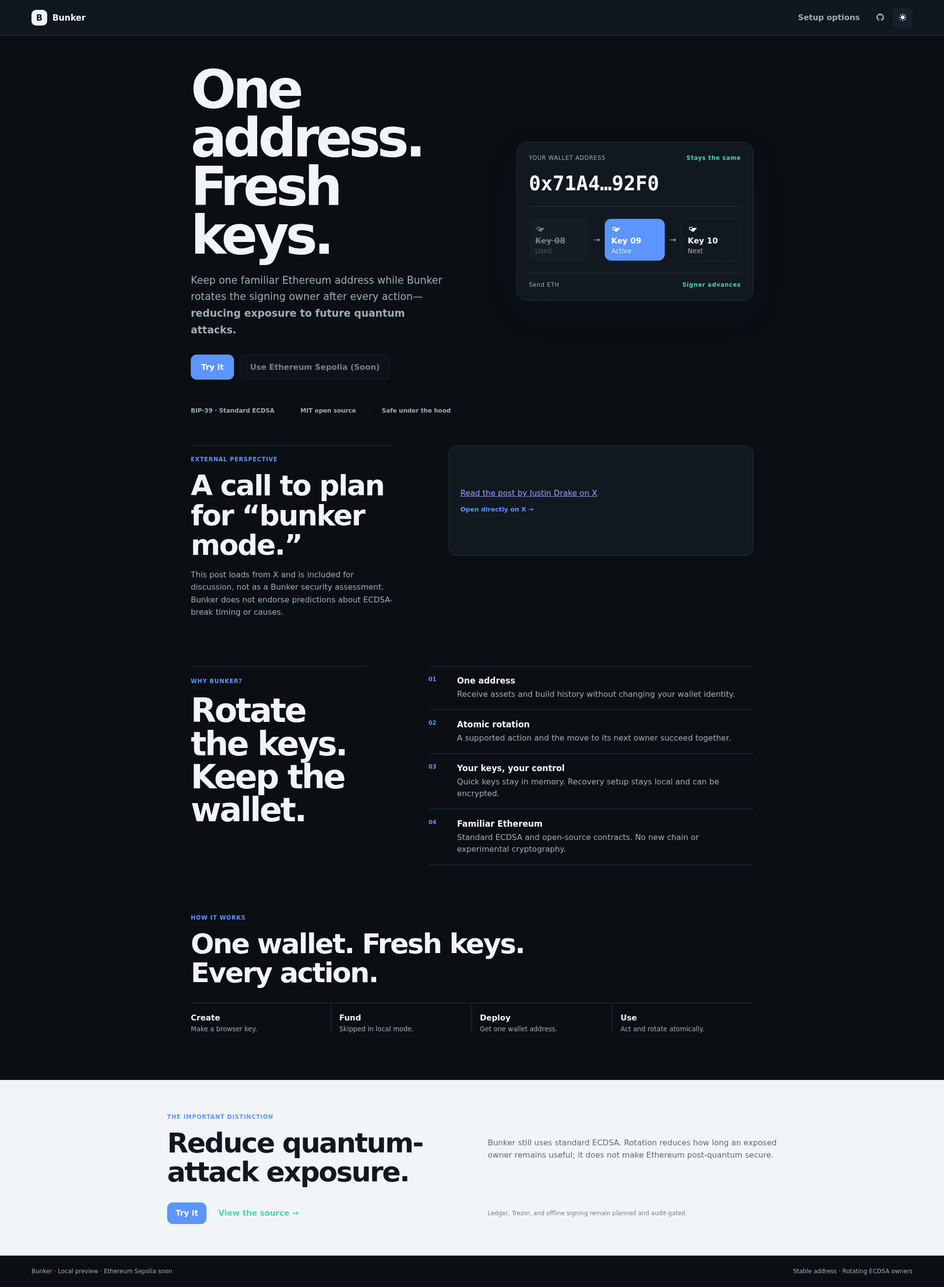
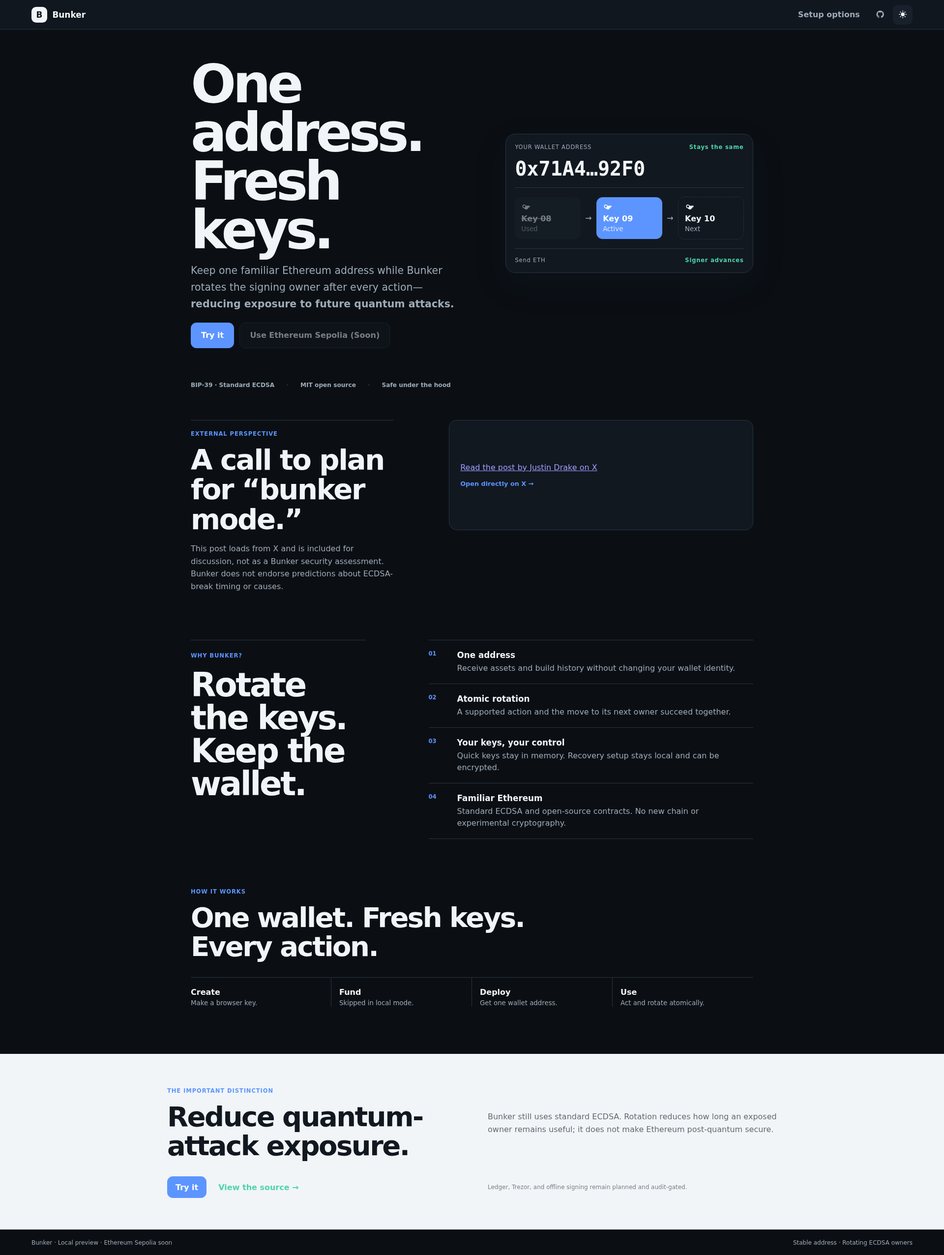
Tighten desktop vertical rhythm

diff --git a/apps/web/src/styles.css b/apps/web/src/styles.css
@@ -1,1 +1,2 @@
-:root{font-family:ui-sans-serif,-apple-system,BlinkMacSystemFont,"Segoe UI",sans-serif;font-synthesis:none;color-scheme:light;background:#f5f7fa}*{box-sizing:border-box}body{margin:0}button,input,textarea{font:inherit}.site{--bg:#f5f7fa;--surface:#fff;--soft:#eef2f6;--line:#dce2e9;--text:#101820;--muted:#63707c;--accent:#146bff;--mint:#18b889;--ink:#fff;min-height:100vh;background:var(--bg);color:var(--text)}.site.dark{--bg:#0b0f14;--surface:#121820;--soft:#18212b;--line:#283442;--text:#f1f5f8;--muted:#9eabb7;--accent:#5c95ff;--mint:#4dd4aa;--ink:#071018;color-scheme:dark}::selection{background:var(--accent);color:#fff}button{border:1px solid var(--line);background:var(--surface);color:var(--text);border-radius:.7rem;padding:.72rem 1rem;font-weight:650;cursor:pointer}button:hover:not(:disabled){border-color:var(--accent)}button:disabled{opacity:.48;cursor:not-allowed}button:focus-visible,input:focus-visible,textarea:focus-visible,a:focus-visible{outline:3px solid var(--accent);outline-offset:2px}.primary{background:var(--accent);border-color:var(--accent);color:#fff}.wide{width:100%;padding:.95rem}.top{height:72px;display:flex;align-items:center;padding:0 clamp(1rem,4vw,4rem);border-bottom:1px solid var(--line);background:color-mix(in srgb,var(--surface),transparent 8%);position:relative;z-index:2}.brand{border:0;background:transparent;padding:0;display:flex;align-items:center;gap:.65rem;font-size:1.06rem}.brand span{display:grid;place-items:center;width:32px;height:32px;border-radius:.6rem;background:var(--text);color:var(--surface);font-weight:900}.top nav{margin-left:auto;display:flex;align-items:center;gap:.35rem}.top nav button{border:0;background:transparent;color:var(--muted)}.top nav button:hover{color:var(--text);background:var(--soft)}.nav-icon{width:2.5rem;height:2.5rem;padding:0;border:1px solid transparent;border-radius:.65rem;display:grid;place-items:center;color:var(--muted);background:transparent}.nav-icon:hover{color:var(--text);background:var(--soft);border-color:var(--line)}.nav-icon svg{width:1.15rem;height:1.15rem;fill:currentColor}.test-banner{padding:.55rem 1rem;text-align:center;background:#fff3cd;color:#5f4600;border-bottom:1px solid #e7c85f;font-size:.78rem;font-weight:750}.toast{position:fixed;top:84px;left:50%;transform:translateX(-50%);z-index:10;background:var(--text);color:var(--surface);padding:.75rem 1rem;border-radius:2rem;box-shadow:0 12px 35px rgba(0,0,0,.16);font-size:.86rem;max-width:calc(100vw - 2rem)}main{min-height:calc(100vh - 136px)}.hero-new{max-width:1240px;margin:auto;padding:clamp(1rem,2.5vw,2.5rem) clamp(1rem,4vw,3rem) 2.5rem;display:grid;grid-template-columns:1fr .9fr;gap:clamp(3rem,8vw,8rem);align-items:center}.status-dot{display:inline-flex;align-items:center;gap:.45rem;color:var(--mint);font-size:.78rem;font-weight:750;text-transform:uppercase;letter-spacing:.08em}.status-dot:before{content:"";width:7px;height:7px;border-radius:50%;background:var(--mint)}h1,h2,p{margin-top:0}.hero-copy h1{font-size:clamp(3.5rem,7vw,6.8rem);line-height:.91;letter-spacing:-.065em;margin:1.25rem 0 1.6rem;max-width:10ch}.hero-copy>p{font-size:clamp(1.05rem,1.6vw,1.28rem);line-height:1.65;color:var(--muted);max-width:590px}.hero-actions,.secure-actions,.setup-actions{display:flex;gap:.7rem;flex-wrap:wrap;margin:2rem 0 1rem}.hero-actions button{padding:.95rem 1.25rem}.hero-copy>small{color:var(--muted)}.mechanism{background:var(--surface);border:1px solid var(--line);border-radius:1.25rem;padding:1.5rem;box-shadow:0 24px 70px rgba(34,51,68,.1)}.address-head,.action-line{display:flex;justify-content:space-between;gap:1rem;font-size:.72rem;color:var(--muted);letter-spacing:.07em}.address-head b,.action-line b{color:var(--mint)}.mechanism>code{display:block;font:700 clamp(1.5rem,3vw,2.5rem)/1 ui-monospace,SFMono-Regular,monospace;padding:1.6rem 0;border-bottom:1px solid var(--line)}.key-track{display:grid;grid-template-columns:1fr auto 1fr auto 1fr;align-items:center;gap:.6rem;padding:1.5rem 0}.key{display:grid;gap:.25rem;padding:.8rem;border-radius:.8rem;background:var(--soft)}.key svg{width:20px;fill:currentColor}.key span{font-weight:750}.key small{color:var(--muted)}.key.spent{opacity:.45}.key.spent span{text-decoration:line-through}.key.active{background:var(--accent);color:#fff}.key.active small{color:#dfeaff}.key.next{border:1px dashed var(--line);background:transparent}.key-track>i{font-style:normal;color:var(--muted)}.action-line{padding-top:1rem;border-top:1px solid var(--line)}.button-link{display:inline-flex;align-items:center;border:1px solid var(--line);background:var(--surface);color:var(--text);border-radius:.7rem;padding:.95rem 1.25rem;font-weight:650;text-decoration:none}.button-link:hover{border-color:var(--accent)}.trust-line{max-width:1240px;margin:auto;padding:0 clamp(1rem,4vw,3rem);display:flex;gap:1.5rem;flex-wrap:wrap;color:var(--muted);font-size:.76rem;font-weight:700}.trust-line span+span:before{content:"·";margin-right:1.5rem;color:var(--line)}.why{max-width:1240px;margin:auto;padding:0 clamp(1rem,4vw,3rem) 6rem;display:grid;grid-template-columns:.7fr 1.3fr;gap:clamp(3rem,8vw,8rem)}.why-head{border-top:1px solid var(--line);padding-top:1.2rem}.why-head>span,.roadmap span{color:var(--accent);font-size:.72rem;font-weight:750;text-transform:uppercase;letter-spacing:.08em}.why-head h2{font-size:clamp(2.2rem,4vw,4.2rem);line-height:1;letter-spacing:-.05em;margin:1.2rem 0}.why-list{border-top:1px solid var(--line)}.why-list article{display:grid;grid-template-columns:42px 1fr;gap:1rem;padding:1.2rem 0;border-bottom:1px solid var(--line)}.why-list article>b{color:var(--accent);font-size:.72rem}.why-list h3{margin:0 0 .35rem;font-size:1.05rem}.why-list p{margin:0;color:var(--muted);line-height:1.5}.flow{max-width:1240px;margin:auto;padding:0 clamp(1rem,4vw,3rem) 6rem}.flow>span{color:var(--accent);font-size:.72rem;font-weight:750;text-transform:uppercase;letter-spacing:.08em}.flow h2{font-size:clamp(2rem,4vw,3.5rem);line-height:1.05;letter-spacing:-.045em;margin:1rem 0 2rem}.flow ol{list-style:none;margin:0;padding:0;display:grid;grid-template-columns:repeat(4,1fr);border-top:1px solid var(--line)}.flow li{padding:1.25rem 1rem 0 0;border-right:1px solid var(--line);display:grid;gap:.35rem}.flow li+li{padding-left:1rem}.flow li:last-child{border:0}.flow small{color:var(--muted)}.roadmap{background:var(--text);color:var(--surface);padding:4rem max(clamp(1rem,8vw,8rem),calc((100vw - 1240px)/2));display:grid;grid-template-columns:1fr 1fr;gap:2rem 4rem;align-items:center}.roadmap h2{font-size:clamp(2rem,4vw,3.5rem);line-height:1.05;letter-spacing:-.045em;margin:1rem 0 0}.roadmap p{color:color-mix(in srgb,var(--surface),transparent 35%);line-height:1.6;margin:0}.roadmap-links{display:flex;align-items:center;gap:1.5rem}.roadmap a{color:var(--mint);font-weight:750;text-decoration:none;white-space:nowrap}.roadmap>small{color:color-mix(in srgb,var(--surface),transparent 45%);grid-column:2;font-size:.75rem}.external-post{max-width:1240px;margin:auto;padding:clamp(2rem,4vw,4rem) clamp(1rem,4vw,3rem) 5rem;display:grid;grid-template-columns:.8fr 1.2fr;gap:clamp(3rem,8vw,7rem);align-items:start}.post-context{border-top:1px solid var(--line);padding-top:1rem}.post-context>span{color:var(--accent);font-size:.72rem;font-weight:750;text-transform:uppercase;letter-spacing:.08em}.post-context h2{font-size:clamp(2rem,4vw,3.6rem);line-height:1.05;letter-spacing:-.04em;margin:1rem 0}.post-context p,.post-embed p{color:var(--muted);line-height:1.6}.post-embed{min-height:14rem;background:var(--surface);border:1px solid var(--line);border-radius:1rem;padding:1.4rem;display:flex;flex-direction:column;align-items:flex-start;justify-content:center}.post-embed .twitter-tweet{margin:0 auto!important;width:100%!important}.post-link{margin-top:1rem;color:var(--accent);font-size:.8rem;font-weight:700;text-decoration:none}.setup,.advanced,.secure{width:min(720px,calc(100% - 2rem));margin:auto;padding:clamp(3rem,8vw,7rem) 0}.ephemeral-note,.saved-note{font-size:.8rem;color:var(--muted);border-left:1px solid var(--mint);padding-left:.8rem}.saved-note{color:var(--text)}.setup h1,.advanced h1,.secure h1{font-size:clamp(2.5rem,6vw,4.8rem);line-height:.98;letter-spacing:-.05em;margin:2rem 0 1rem}.stepper{display:grid;grid-template-columns:repeat(3,1fr);position:relative}.stepper:before{content:"";position:absolute;left:2rem;right:2rem;top:17px;height:1px;background:var(--line)}.stepper span{position:relative;display:grid;justify-items:center;gap:.5rem;color:var(--muted);font-size:.72rem}.stepper span:first-letter{background:var(--surface)}.stepper span b{font-size:.8rem}.stepper span.done{color:var(--mint)}.setup-address,.stable{margin:2rem 0;background:var(--surface);border:1px solid var(--line);border-radius:1rem;padding:1rem;display:grid;grid-template-columns:1fr auto;gap:.65rem;align-items:center}.setup-address span,.stable span{font-size:.75rem;color:var(--muted)}.setup-address code,.stable-copy{grid-column:1/2;min-width:0;padding:0;border:0;background:transparent;display:flex;align-items:center;gap:.65rem;text-align:left;color:var(--accent)}.stable-copy:hover code{color:var(--text)}.stable-copy code{overflow-wrap:anywhere;color:inherit}.stable-copy span{flex:none;color:var(--muted);font:700 .7rem/1 system-ui;text-transform:uppercase;letter-spacing:.06em}.setup-address button{grid-row:1/3;grid-column:2}.balance-row{display:flex;justify-content:space-between;border-block:1px solid var(--line);padding:1.2rem 0}.setup-actions button{flex:1}.deploy-status{margin-top:1rem;padding:1rem;background:var(--surface);border:1px solid var(--line);border-radius:1rem;display:grid;grid-template-columns:auto 1fr;gap:.85rem 1rem}.deploy-status h2{font-size:1rem;margin:0 0 .35rem}.deploy-status p{margin:0;color:var(--muted);font-size:.82rem;line-height:1.5}.deploy-status ol{grid-column:1/-1;margin:0;padding:.9rem 0 0 1.35rem;border-top:1px solid var(--line);color:var(--muted);font-size:.78rem;line-height:1.8}.deploy-status button{grid-column:1/-1}.deploy-spinner{width:1.25rem;height:1.25rem;margin-top:.05rem;border:2px solid var(--line);border-top-color:var(--accent);border-radius:50%;animation:deploy-spin .9s linear infinite}@keyframes deploy-spin{to{transform:rotate(360deg)}}.text-button,.back{border:0;background:transparent;color:var(--muted);padding-left:0}.wallet{max-width:1180px;margin:auto;padding:clamp(.75rem,2.5vw,2rem) 1rem}.wallet-top{display:grid;grid-template-columns:1fr 340px;gap:2rem;align-items:end}.wallet-top h1{font-size:clamp(3.5rem,7vw,6rem);letter-spacing:-.06em;margin:1rem 0 .5rem}.rotation-card{background:var(--text);color:var(--surface);padding:1.4rem;border-radius:1rem}.rotation-card>span{font-size:.68rem;letter-spacing:.1em}.rotation-card strong{display:block;font-size:2rem;margin:.5rem 0}.rotation-card p{color:color-mix(in srgb,var(--surface),transparent 35%);font-size:.8rem}.rotation-card>div{height:5px;background:color-mix(in srgb,var(--surface),transparent 80%);border-radius:5px}.rotation-card i{display:block;height:100%;background:var(--mint);border-radius:5px}.session-note{margin:1rem 0 0;color:var(--muted);font-size:.78rem;line-height:1.5}.stable{grid-template-columns:1fr auto}.stable b{grid-row:1/3;grid-column:2;color:var(--mint);font-size:.75rem}.signer-sequence{margin:2rem 0;background:var(--surface);border:1px solid var(--line);border-radius:1rem;padding:1.15rem}.signer-sequence>div:first-child{display:flex;justify-content:space-between;gap:1rem}.signer-sequence span{font-weight:750}.signer-sequence small{color:var(--muted)}.signer-steps{display:grid;grid-template-columns:1fr auto 1fr auto 1fr;gap:.75rem;align-items:center;margin-top:1rem}.signer-steps>div{display:grid;gap:.35rem;padding:.8rem;border:1px solid var(--line);border-radius:.7rem}.signer-steps>.current{border-color:var(--accent);background:color-mix(in srgb,var(--accent),transparent 94%)}.signer-steps code{font-size:.8rem}.signer-steps i{font-style:normal;color:var(--muted)}.wallet-grid{display:grid;grid-template-columns:1.2fr .8fr;gap:2rem;margin-top:2rem}.actions-panel,.activity{background:var(--surface);border:1px solid var(--line);border-radius:1rem;padding:1.4rem}svg{width:18px;height:18px;fill:currentColor}.actions-panel h2,.activity h2{font-size:1.15rem;margin-bottom:.4rem}.history-intro{color:var(--muted);font-size:.82rem;line-height:1.45;margin:0 0 1rem}.actions-panel label{display:grid;gap:.45rem;margin:1rem 0;color:var(--muted);font-size:.78rem}.actions-panel input,.actions-panel textarea,.secure input,.secure textarea{width:100%;border:1px solid var(--line);background:var(--bg);color:var(--text);padding:.85rem;border-radius:.65rem}.split{display:grid;grid-template-columns:1fr 110px;gap:.7rem}.activity-row{display:grid;grid-template-columns:auto 1fr auto;gap:.8rem;align-items:start;padding:1rem 0;border-top:1px solid var(--line)}.activity-row>span{font-size:.65rem;background:var(--soft);padding:.3rem .45rem;border-radius:1rem;color:var(--muted)}.activity-row p{display:grid;gap:.25rem;margin:0}.activity-row code{font-size:.7rem;color:var(--muted);overflow-wrap:anywhere}.activity-row small{color:var(--muted)}.activity-row a{color:var(--accent);font-size:.75rem}.option-list{display:grid;margin-top:2.5rem;border-top:1px solid var(--line)}.option-list button{border:0;border-bottom:1px solid var(--line);border-radius:0;background:transparent;display:grid;grid-template-columns:1fr auto;text-align:left;padding:1.2rem 0}.option-list button span{font-size:1rem}.option-list button small{grid-row:2;color:var(--muted);font-weight:400}.option-list button b{grid-row:1/3;grid-column:2;align-self:center;color:var(--accent)}.words{list-style:none;display:grid;grid-template-columns:repeat(4,1fr);gap:1px;background:var(--line);padding:1px;margin:2rem 0}.words li{background:var(--surface);padding:.8rem;font-weight:700}.words span{display:block;color:var(--muted);font-size:.65rem}.check{display:flex;gap:.6rem;align-items:center;color:var(--muted)}.check input{width:auto}.confirm{display:grid;grid-template-columns:repeat(3,1fr);gap:.7rem}.secure label{display:grid;gap:.45rem;margin:1rem 0;color:var(--muted);font-size:.8rem}.load-choice{padding:1.25rem 0;border-top:1px solid var(--line)}.load-choice h2{font-size:1rem;margin:0 0 .35rem}.load-choice p{color:var(--muted);font-size:.82rem;line-height:1.5;margin:0}.load-choice button{width:100%}footer{height:64px;border-top:1px solid var(--line);display:flex;justify-content:space-between;align-items:center;padding:0 clamp(1rem,4vw,4rem);color:var(--muted);font-size:.75rem}@media(max-width:760px){.top{height:64px}.top nav>button:not(.nav-icon):not(.nav-exit){display:none}.hero-new{grid-template-columns:1fr;padding-top:1rem;gap:3rem}.hero-copy h1{font-size:3.8rem}.hero-actions{display:grid}.mechanism{padding:1rem}.key-track{gap:.3rem}.key{padding:.55rem}.key-track>i{display:none}.trust-line{display:grid;grid-template-columns:1fr 1fr;gap:.65rem 1rem}.trust-line span+span:before{content:none}.why{grid-template-columns:1fr;gap:1.5rem}.flow ol{grid-template-columns:1fr 1fr}.flow li{border-bottom:1px solid var(--line);border-right:0;padding:1rem 0}.flow li+li{padding-left:0}.roadmap{grid-template-columns:1fr;gap:1.5rem}.roadmap a{white-space:normal}.roadmap>small{grid-column:1}.external-post{grid-template-columns:1fr;gap:1.5rem;padding-top:2rem;padding-bottom:4rem}.post-embed{min-height:12rem}.wallet-top,.wallet-grid{grid-template-columns:1fr}.signer-sequence>div:first-child{display:grid}.signer-steps{grid-template-columns:1fr}.signer-steps i{transform:rotate(90deg);justify-self:center}.stable{grid-template-columns:1fr}.stable b{grid-row:auto;grid-column:1}.words{grid-template-columns:repeat(3,1fr)}.confirm{grid-template-columns:1fr}.setup-actions,.secure-actions{display:grid}.toast{top:72px}}@media(prefers-reduced-motion:reduce){*{scroll-behavior:auto!important;transition:none!important}.deploy-spinner{animation:none;border-color:var(--accent)}}
+:root{font-family:ui-sans-serif,-apple-system,BlinkMacSystemFont,"Segoe UI",sans-serif;font-synthesis:none;color-scheme:light;background:#f5f7fa}*{box-sizing:border-box}body{margin:0}button,input,textarea{font:inherit}.site{--bg:#f5f7fa;--surface:#fff;--soft:#eef2f6;--line:#dce2e9;--text:#101820;--muted:#63707c;--accent:#146bff;--mint:#18b889;--ink:#fff;min-height:100vh;background:var(--bg);color:var(--text)}.site.dark{--bg:#0b0f14;--surface:#121820;--soft:#18212b;--line:#283442;--text:#f1f5f8;--muted:#9eabb7;--accent:#5c95ff;--mint:#4dd4aa;--ink:#071018;color-scheme:dark}::selection{background:var(--accent);color:#fff}button{border:1px solid var(--line);background:var(--surface);color:var(--text);border-radius:.7rem;padding:.72rem 1rem;font-weight:650;cursor:pointer}button:hover:not(:disabled){border-color:var(--accent)}button:disabled{opacity:.48;cursor:not-allowed}button:focus-visible,input:focus-visible,textarea:focus-visible,a:focus-visible{outline:3px solid var(--accent);outline-offset:2px}.primary{background:var(--accent);border-color:var(--accent);color:#fff}.wide{width:100%;padding:.95rem}.top{height:60px;display:flex;align-items:center;padding:0 clamp(1rem,4vw,4rem);border-bottom:1px solid var(--line);background:color-mix(in srgb,var(--surface),transparent 8%);position:relative;z-index:2}.brand{border:0;background:transparent;padding:0;display:flex;align-items:center;gap:.65rem;font-size:1.06rem}.brand span{display:grid;place-items:center;width:32px;height:32px;border-radius:.6rem;background:var(--text);color:var(--surface);font-weight:900}.top nav{margin-left:auto;display:flex;align-items:center;gap:.35rem}.top nav button{border:0;background:transparent;color:var(--muted)}.top nav button:hover{color:var(--text);background:var(--soft)}.nav-icon{width:2.5rem;height:2.5rem;padding:0;border:1px solid transparent;border-radius:.65rem;display:grid;place-items:center;color:var(--muted);background:transparent}.nav-icon:hover{color:var(--text);background:var(--soft);border-color:var(--line)}.nav-icon svg{width:1.15rem;height:1.15rem;fill:currentColor}.test-banner{padding:.55rem 1rem;text-align:center;background:#fff3cd;color:#5f4600;border-bottom:1px solid #e7c85f;font-size:.78rem;font-weight:750}.toast{position:fixed;top:84px;left:50%;transform:translateX(-50%);z-index:10;background:var(--text);color:var(--surface);padding:.75rem 1rem;border-radius:2rem;box-shadow:0 12px 35px rgba(0,0,0,.16);font-size:.86rem;max-width:calc(100vw - 2rem)}main{min-height:calc(100vh - 136px)}.hero-new{max-width:1240px;margin:auto;padding:clamp(1rem,2.5vw,2.5rem) clamp(1rem,4vw,3rem) 2.5rem;display:grid;grid-template-columns:1fr .9fr;gap:clamp(2rem,5vw,5rem);align-items:center}.status-dot{display:inline-flex;align-items:center;gap:.45rem;color:var(--mint);font-size:.78rem;font-weight:750;text-transform:uppercase;letter-spacing:.08em}.status-dot:before{content:"";width:7px;height:7px;border-radius:50%;background:var(--mint)}h1,h2,p{margin-top:0}.hero-copy h1{font-size:clamp(3.5rem,7vw,6.8rem);line-height:.91;letter-spacing:-.065em;margin:.8rem 0 1.1rem;max-width:10ch}.hero-copy>p{font-size:clamp(1.05rem,1.6vw,1.28rem);line-height:1.65;color:var(--muted);max-width:590px}.hero-actions,.secure-actions,.setup-actions{display:flex;gap:.7rem;flex-wrap:wrap;margin:1.25rem 0 .75rem}.hero-actions button{padding:.95rem 1.25rem}.hero-copy>small{color:var(--muted)}.mechanism{background:var(--surface);border:1px solid var(--line);border-radius:1.25rem;padding:1.15rem;box-shadow:0 24px 70px rgba(34,51,68,.1)}.address-head,.action-line{display:flex;justify-content:space-between;gap:1rem;font-size:.72rem;color:var(--muted);letter-spacing:.07em}.address-head b,.action-line b{color:var(--mint)}.mechanism>code{display:block;font:700 clamp(1.5rem,3vw,2.5rem)/1 ui-monospace,SFMono-Regular,monospace;padding:1.1rem 0;border-bottom:1px solid var(--line)}.key-track{display:grid;grid-template-columns:1fr auto 1fr auto 1fr;align-items:center;gap:.6rem;padding:1.1rem 0}.key{display:grid;gap:.25rem;padding:.8rem;border-radius:.8rem;background:var(--soft)}.key svg{width:20px;fill:currentColor}.key span{font-weight:750}.key small{color:var(--muted)}.key.spent{opacity:.45}.key.spent span{text-decoration:line-through}.key.active{background:var(--accent);color:#fff}.key.active small{color:#dfeaff}.key.next{border:1px dashed var(--line);background:transparent}.key-track>i{font-style:normal;color:var(--muted)}.action-line{padding-top:1rem;border-top:1px solid var(--line)}.button-link{display:inline-flex;align-items:center;border:1px solid var(--line);background:var(--surface);color:var(--text);border-radius:.7rem;padding:.95rem 1.25rem;font-weight:650;text-decoration:none}.button-link:hover{border-color:var(--accent)}.trust-line{max-width:1240px;margin:auto;padding:0 clamp(1rem,4vw,3rem);display:flex;gap:1.5rem;flex-wrap:wrap;color:var(--muted);font-size:.76rem;font-weight:700}.trust-line span+span:before{content:"·";margin-right:1.5rem;color:var(--line)}.why{max-width:1240px;margin:auto;padding:0 clamp(1rem,4vw,3rem) 6rem;display:grid;grid-template-columns:.7fr 1.3fr;gap:clamp(3rem,8vw,8rem)}.why-head{border-top:1px solid var(--line);padding-top:1.2rem}.why-head>span,.roadmap span{color:var(--accent);font-size:.72rem;font-weight:750;text-transform:uppercase;letter-spacing:.08em}.why-head h2{font-size:clamp(2.2rem,4vw,4.2rem);line-height:1;letter-spacing:-.05em;margin:1.2rem 0}.why-list{border-top:1px solid var(--line)}.why-list article{display:grid;grid-template-columns:42px 1fr;gap:1rem;padding:1.2rem 0;border-bottom:1px solid var(--line)}.why-list article>b{color:var(--accent);font-size:.72rem}.why-list h3{margin:0 0 .35rem;font-size:1.05rem}.why-list p{margin:0;color:var(--muted);line-height:1.5}.flow{max-width:1240px;margin:auto;padding:0 clamp(1rem,4vw,3rem) 6rem}.flow>span{color:var(--accent);font-size:.72rem;font-weight:750;text-transform:uppercase;letter-spacing:.08em}.flow h2{font-size:clamp(2rem,4vw,3.5rem);line-height:1.05;letter-spacing:-.045em;margin:1rem 0 2rem}.flow ol{list-style:none;margin:0;padding:0;display:grid;grid-template-columns:repeat(4,1fr);border-top:1px solid var(--line)}.flow li{padding:1.25rem 1rem 0 0;border-right:1px solid var(--line);display:grid;gap:.35rem}.flow li+li{padding-left:1rem}.flow li:last-child{border:0}.flow small{color:var(--muted)}.roadmap{background:var(--text);color:var(--surface);padding:4rem max(clamp(1rem,8vw,8rem),calc((100vw - 1240px)/2));display:grid;grid-template-columns:1fr 1fr;gap:2rem 4rem;align-items:center}.roadmap h2{font-size:clamp(2rem,4vw,3.5rem);line-height:1.05;letter-spacing:-.045em;margin:1rem 0 0}.roadmap p{color:color-mix(in srgb,var(--surface),transparent 35%);line-height:1.6;margin:0}.roadmap-links{display:flex;align-items:center;gap:1.5rem}.roadmap a{color:var(--mint);font-weight:750;text-decoration:none;white-space:nowrap}.roadmap>small{color:color-mix(in srgb,var(--surface),transparent 45%);grid-column:2;font-size:.75rem}.external-post{max-width:1240px;margin:auto;padding:clamp(2rem,4vw,4rem) clamp(1rem,4vw,3rem) 5rem;display:grid;grid-template-columns:.8fr 1.2fr;gap:clamp(3rem,8vw,7rem);align-items:start}.post-context{border-top:1px solid var(--line);padding-top:1rem}.post-context>span{color:var(--accent);font-size:.72rem;font-weight:750;text-transform:uppercase;letter-spacing:.08em}.post-context h2{font-size:clamp(2rem,4vw,3.6rem);line-height:1.05;letter-spacing:-.04em;margin:1rem 0}.post-context p,.post-embed p{color:var(--muted);line-height:1.6}.post-embed{min-height:14rem;background:var(--surface);border:1px solid var(--line);border-radius:1rem;padding:1.4rem;display:flex;flex-direction:column;align-items:flex-start;justify-content:center}.post-embed .twitter-tweet{margin:0 auto!important;width:100%!important}.post-link{margin-top:1rem;color:var(--accent);font-size:.8rem;font-weight:700;text-decoration:none}.setup,.advanced,.secure{width:min(720px,calc(100% - 2rem));margin:auto;padding:clamp(1.5rem,4.5vh,3.5rem) 0}.ephemeral-note,.saved-note{font-size:.8rem;color:var(--muted);border-left:1px solid var(--mint);padding-left:.8rem}.saved-note{color:var(--text)}.setup h1,.advanced h1,.secure h1{font-size:clamp(2.5rem,4.5vw,3.4rem);line-height:.96;letter-spacing:-.04em;margin:1rem 0 .7rem}.stepper{display:grid;grid-template-columns:repeat(3,1fr);position:relative}.stepper:before{content:"";position:absolute;left:2rem;right:2rem;top:17px;height:1px;background:var(--line)}.stepper span{position:relative;display:grid;justify-items:center;gap:.5rem;color:var(--muted);font-size:.72rem}.stepper span:first-letter{background:var(--surface)}.stepper span b{font-size:.8rem}.stepper span.done{color:var(--mint)}.setup-address,.stable{margin:1rem 0;background:var(--surface);border:1px solid var(--line);border-radius:1rem;padding:1rem;display:grid;grid-template-columns:1fr auto;gap:.65rem;align-items:center}.setup-address span,.stable span{font-size:.75rem;color:var(--muted)}.setup-address code,.stable-copy{grid-column:1/2;min-width:0;padding:0;border:0;background:transparent;display:flex;align-items:center;gap:.65rem;text-align:left;color:var(--accent)}.stable-copy:hover code{color:var(--text)}.stable-copy code{overflow-wrap:anywhere;color:inherit}.stable-copy span{flex:none;color:var(--muted);font:700 .7rem/1 system-ui;text-transform:uppercase;letter-spacing:.06em}.setup-address button{grid-row:1/3;grid-column:2}.balance-row{display:flex;justify-content:space-between;border-block:1px solid var(--line);padding:1.2rem 0}.setup-actions button{flex:1}.deploy-status{margin-top:1rem;padding:1rem;background:var(--surface);border:1px solid var(--line);border-radius:1rem;display:grid;grid-template-columns:auto 1fr;gap:.85rem 1rem}.deploy-status h2{font-size:1rem;margin:0 0 .35rem}.deploy-status p{margin:0;color:var(--muted);font-size:.82rem;line-height:1.5}.deploy-status ol{grid-column:1/-1;margin:0;padding:.9rem 0 0 1.35rem;border-top:1px solid var(--line);color:var(--muted);font-size:.78rem;line-height:1.8}.deploy-status button{grid-column:1/-1}.deploy-spinner{width:1.25rem;height:1.25rem;margin-top:.05rem;border:2px solid var(--line);border-top-color:var(--accent);border-radius:50%;animation:deploy-spin .9s linear infinite}@keyframes deploy-spin{to{transform:rotate(360deg)}}.text-button,.back{border:0;background:transparent;color:var(--muted);padding-left:0}.wallet{max-width:1180px;margin:auto;padding:clamp(.75rem,2.5vw,2rem) 1rem}.wallet-top{display:grid;grid-template-columns:1fr 320px;gap:1.25rem;align-items:end}.wallet-top h1{font-size:clamp(3.25rem,5vw,4.5rem);letter-spacing:-.04em;margin:.45rem 0 .25rem}.rotation-card{background:var(--text);color:var(--surface);padding:1rem;border-radius:1rem}.rotation-card>span{font-size:.68rem;letter-spacing:.1em}.rotation-card strong{display:block;font-size:2rem;margin:.5rem 0}.rotation-card p{color:color-mix(in srgb,var(--surface),transparent 35%);font-size:.8rem}.rotation-card>div{height:5px;background:color-mix(in srgb,var(--surface),transparent 80%);border-radius:5px}.rotation-card i{display:block;height:100%;background:var(--mint);border-radius:5px}.session-note{margin:1rem 0 0;color:var(--muted);font-size:.78rem;line-height:1.5}.stable{grid-template-columns:1fr auto}.stable b{grid-row:1/3;grid-column:2;color:var(--mint);font-size:.75rem}.signer-sequence{margin:1rem 0;background:var(--surface);border:1px solid var(--line);border-radius:1rem;padding:1.15rem}.signer-sequence>div:first-child{display:flex;justify-content:space-between;gap:1rem}.signer-sequence span{font-weight:750}.signer-sequence small{color:var(--muted)}.signer-steps{display:grid;grid-template-columns:1fr auto 1fr auto 1fr;gap:.75rem;align-items:center;margin-top:.65rem}.signer-steps>div{display:grid;gap:.35rem;padding:.8rem;border:1px solid var(--line);border-radius:.7rem}.signer-steps>.current{border-color:var(--accent);background:color-mix(in srgb,var(--accent),transparent 94%)}.signer-steps code{font-size:.8rem}.signer-steps i{font-style:normal;color:var(--muted)}.wallet-grid{display:grid;grid-template-columns:1.2fr .8fr;gap:1.25rem;margin-top:1rem}.actions-panel,.activity{background:var(--surface);border:1px solid var(--line);border-radius:1rem;padding:1rem}svg{width:18px;height:18px;fill:currentColor}.actions-panel h2,.activity h2{font-size:1.15rem;margin-bottom:.4rem}.history-intro{color:var(--muted);font-size:.82rem;line-height:1.45;margin:0 0 1rem}.actions-panel label{display:grid;gap:.45rem;margin:1rem 0;color:var(--muted);font-size:.78rem}.actions-panel input,.actions-panel textarea,.secure input,.secure textarea{width:100%;border:1px solid var(--line);background:var(--bg);color:var(--text);padding:.85rem;border-radius:.65rem}.split{display:grid;grid-template-columns:1fr 110px;gap:.7rem}.activity-row{display:grid;grid-template-columns:auto 1fr auto;gap:.8rem;align-items:start;padding:1rem 0;border-top:1px solid var(--line)}.activity-row>span{font-size:.65rem;background:var(--soft);padding:.3rem .45rem;border-radius:1rem;color:var(--muted)}.activity-row p{display:grid;gap:.25rem;margin:0}.activity-row code{font-size:.7rem;color:var(--muted);overflow-wrap:anywhere}.activity-row small{color:var(--muted)}.activity-row a{color:var(--accent);font-size:.75rem}.option-list{display:grid;margin-top:1.25rem;border-top:1px solid var(--line)}.option-list button{border:0;border-bottom:1px solid var(--line);border-radius:0;background:transparent;display:grid;grid-template-columns:1fr auto;text-align:left;padding:.9rem 0}.option-list button span{font-size:1rem}.option-list button small{grid-row:2;color:var(--muted);font-weight:400}.option-list button b{grid-row:1/3;grid-column:2;align-self:center;color:var(--accent)}.words{list-style:none;display:grid;grid-template-columns:repeat(4,1fr);gap:1px;background:var(--line);padding:1px;margin:1rem 0}.words li{background:var(--surface);padding:.55rem .75rem;font-weight:700}.words span{display:block;color:var(--muted);font-size:.65rem}.check{display:flex;gap:.6rem;align-items:center;color:var(--muted)}.secure label.check{display:flex;gap:.6rem;align-items:center;margin:.75rem 0}.check input{width:auto}.confirm{display:grid;grid-template-columns:repeat(3,1fr);gap:.7rem}.secure label{display:grid;gap:.45rem;margin:1rem 0;color:var(--muted);font-size:.8rem}.load-choice{padding:.85rem 0;border-top:1px solid var(--line)}.load-choice h2{font-size:1rem;margin:0 0 .35rem}.load-choice p{color:var(--muted);font-size:.82rem;line-height:1.5;margin:0}.load-choice button{width:100%}footer{height:52px;border-top:1px solid var(--line);display:flex;justify-content:space-between;align-items:center;padding:0 clamp(1rem,4vw,4rem);color:var(--muted);font-size:.75rem}@media(max-width:760px){.top{height:64px}.top nav>button:not(.nav-icon):not(.nav-exit){display:none}.hero-new{grid-template-columns:1fr;padding-top:1rem;gap:3rem}.hero-copy h1{font-size:3.8rem}.hero-actions{display:grid}.mechanism{padding:1rem}.key-track{gap:.3rem}.key{padding:.55rem}.key-track>i{display:none}.trust-line{display:grid;grid-template-columns:1fr 1fr;gap:.65rem 1rem}.trust-line span+span:before{content:none}.why{grid-template-columns:1fr;gap:1.5rem}.flow ol{grid-template-columns:1fr 1fr}.flow li{border-bottom:1px solid var(--line);border-right:0;padding:1rem 0}.flow li+li{padding-left:0}.roadmap{grid-template-columns:1fr;gap:1.5rem}.roadmap a{white-space:normal}.roadmap>small{grid-column:1}.external-post{grid-template-columns:1fr;gap:1.5rem;padding-top:2rem;padding-bottom:4rem}.post-embed{min-height:12rem}.wallet-top,.wallet-grid{grid-template-columns:1fr}.signer-sequence>div:first-child{display:grid}.signer-steps{grid-template-columns:1fr}.signer-steps i{transform:rotate(90deg);justify-self:center}.stable{grid-template-columns:1fr}.stable b{grid-row:auto;grid-column:1}.words{grid-template-columns:repeat(3,1fr)}.confirm{grid-template-columns:1fr}.setup-actions,.secure-actions{display:grid}.toast{top:72px}}@media(min-width:761px) and (min-height:1050px){.hero-new{padding-top:3rem;padding-bottom:3.5rem}.setup,.advanced,.secure{padding:4.5rem 0}.wallet{padding-top:2.5rem;padding-bottom:2.5rem}.setup-address,.stable,.signer-sequence{margin:1.5rem 0}.wallet-grid{margin-top:1.5rem}.option-list{margin-top:2rem}.words{margin:1.5rem 0}.load-choice{padding:1.15rem 0}}
+@media(prefers-reduced-motion:reduce){*{scroll-behavior:auto!important;transition:none!important}.deploy-spinner{animation:none;border-color:var(--accent)}}
